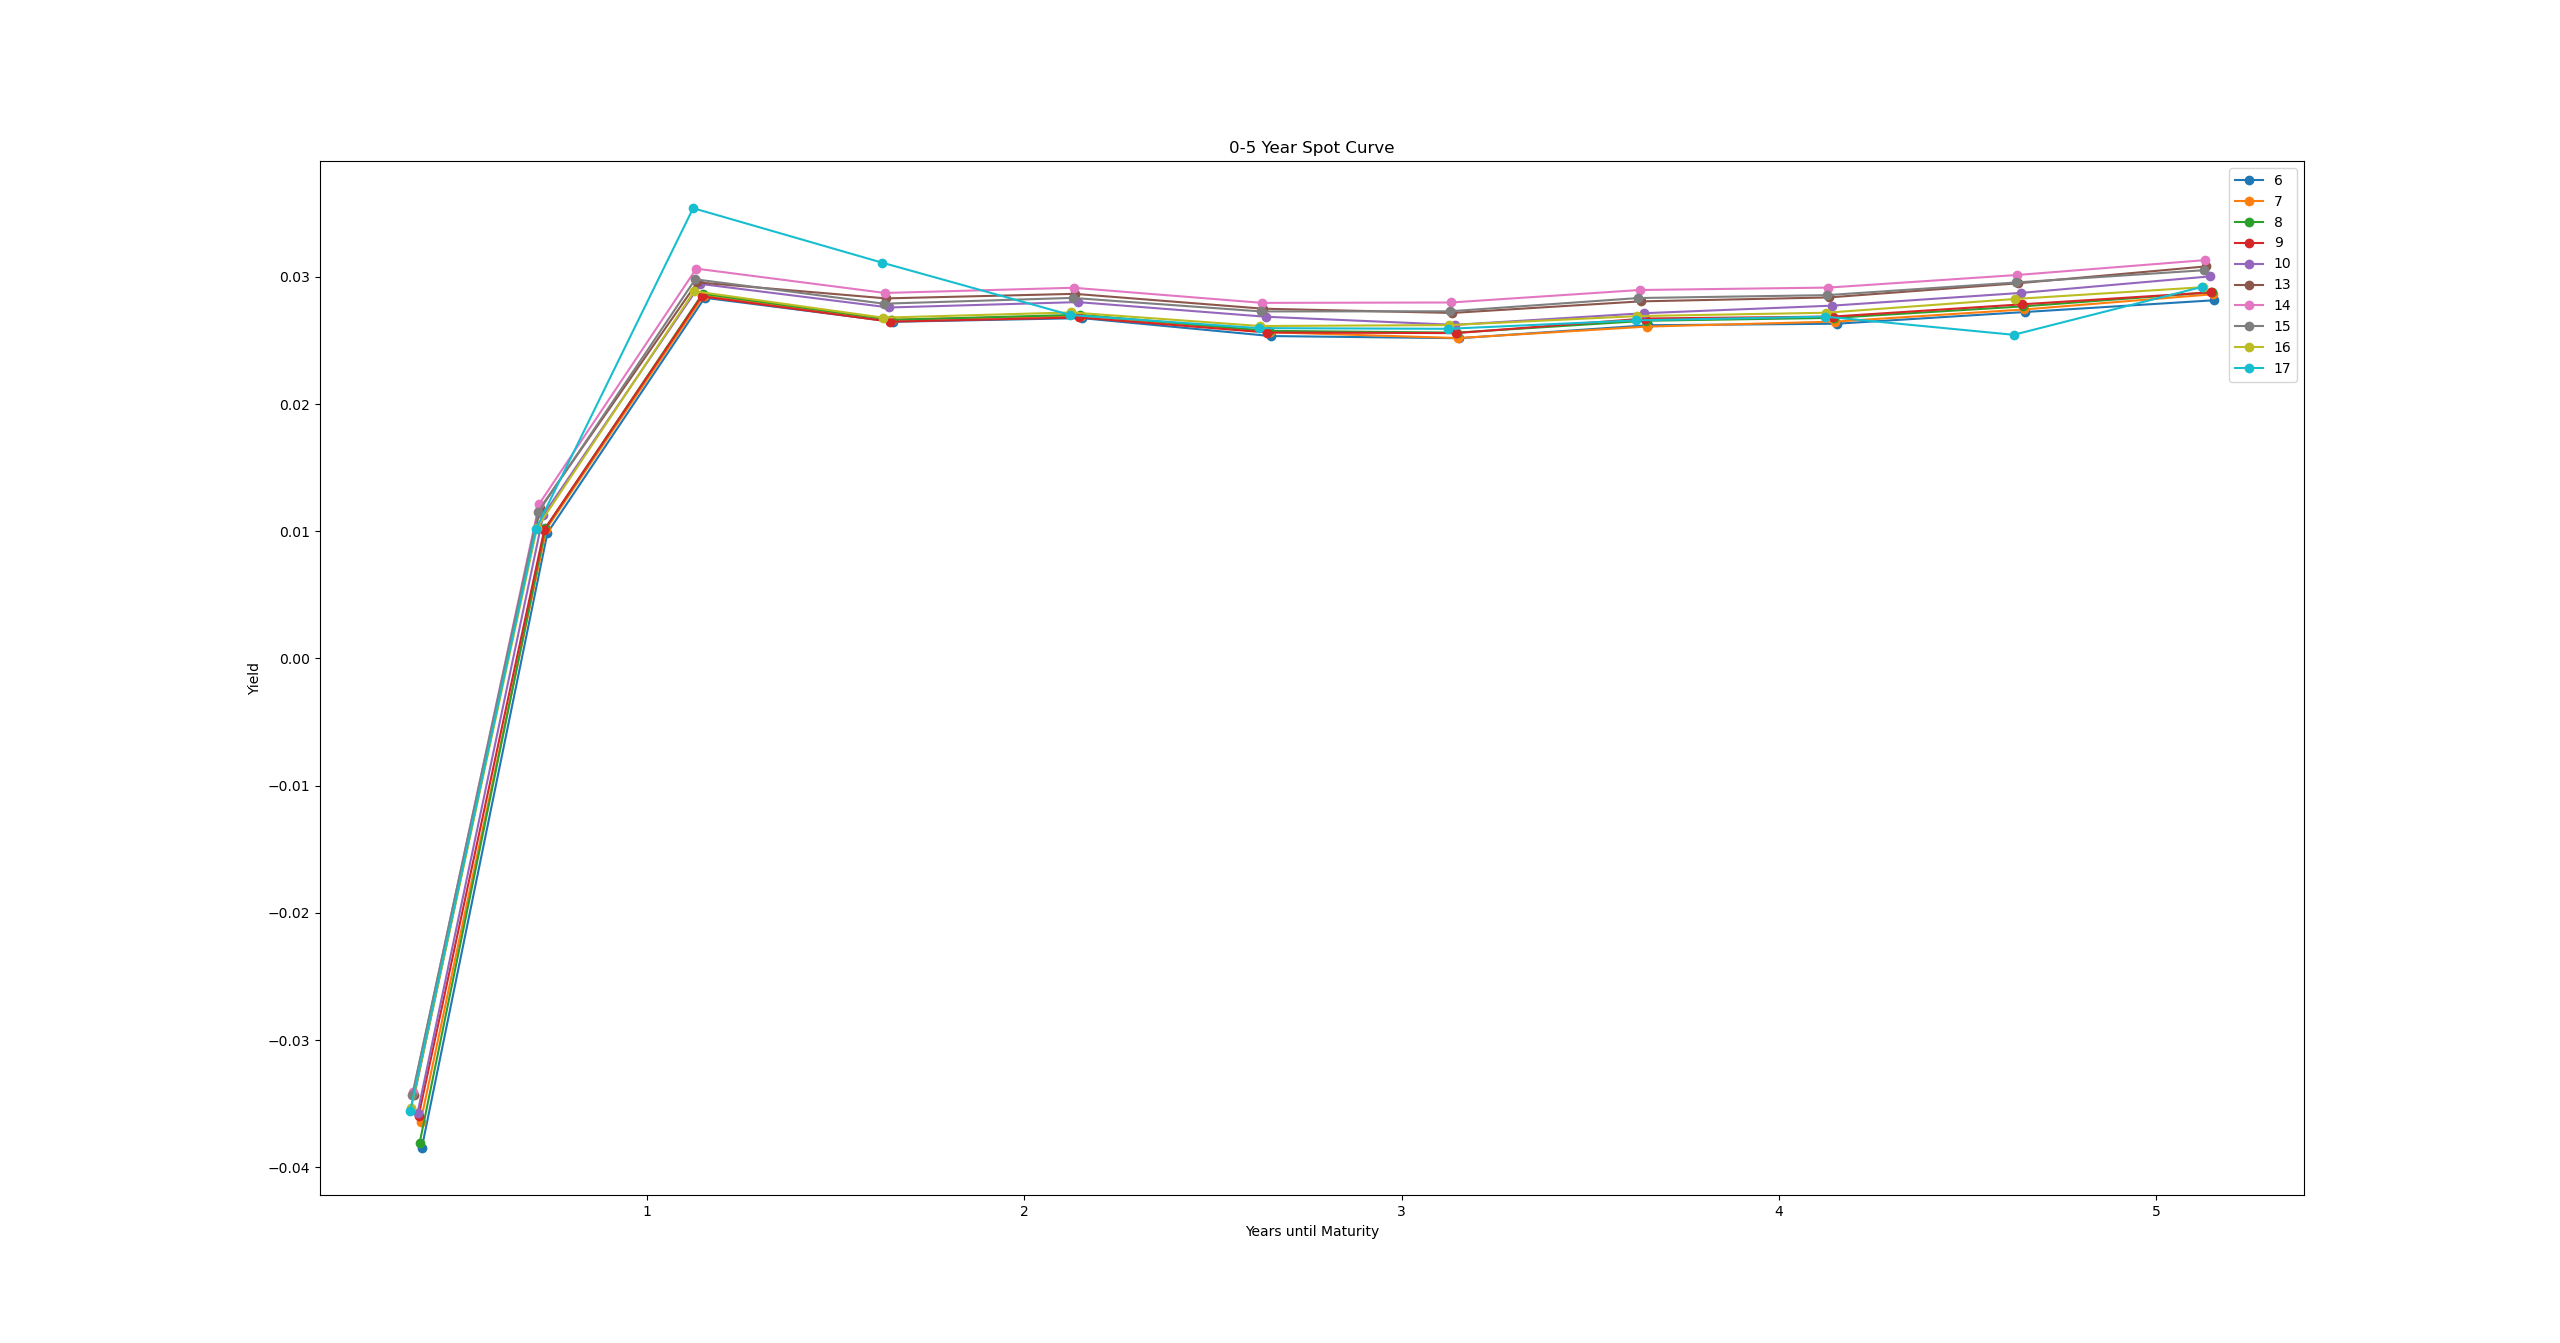
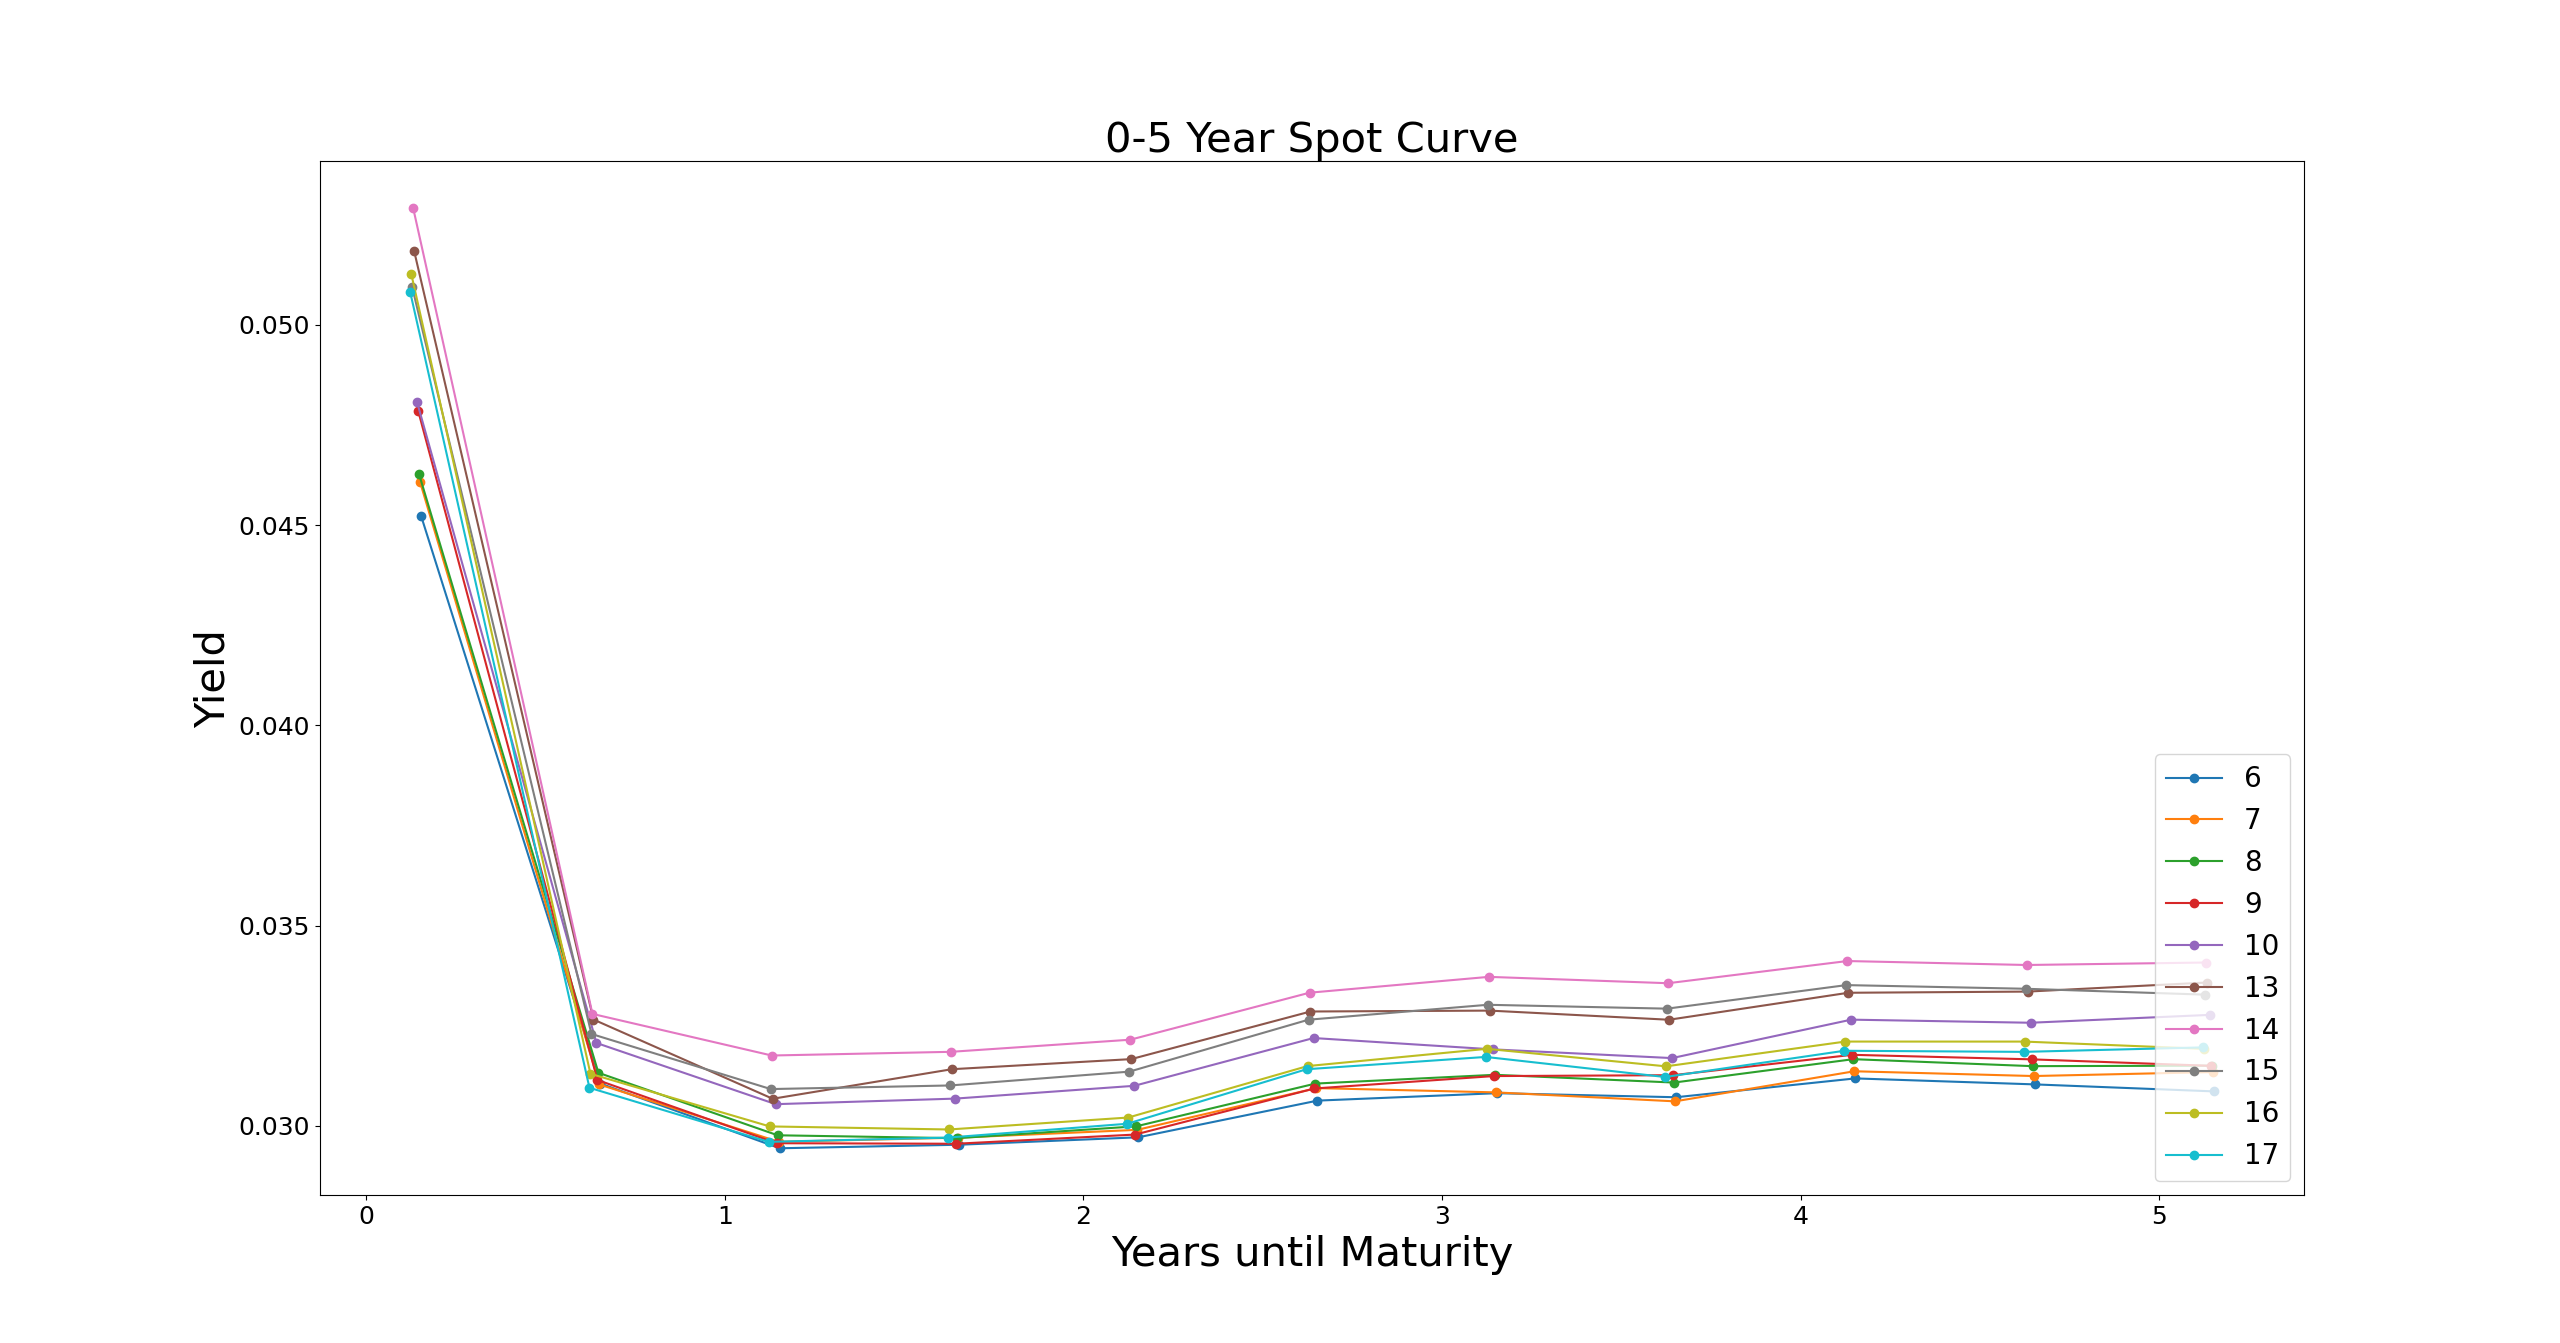
updated data, fixed some bugs, and added figures

diff --git a/assignment_1.py b/assignment_1.py
@@ -28,13 +28,13 @@ def calcualte_spot_rates(spot_rates, dirty_price, coupon_rate, years_until_matur
         return val
 
     number_of_coupon_payments = int(np.floor(years_until_maturity * 2))
-    # print(f"T: {years_until_maturity}")
+    # print(f"T: {years_until_maturity}, number of coupon payments: {number_of_coupon_payments}")
 
     price = dirty_price
     # subtract the previous payments
-    for i in range(number_of_coupon_payments - 1):
-        t = years_until_maturity - (number_of_coupon_payments - i - 1) * 0.5
-        # print(f"temp t: {t}")
+    for i in range(number_of_coupon_payments):
+        t = round(years_until_maturity - (number_of_coupon_payments - i) * 0.5, 4) # due to numerical errors
+        # print(f"i: {i}, temp t: {t}")
         N = 100 * coupon_rate / 2
 
         if t in spot_rates:
@@ -66,7 +66,7 @@ def interpolate_rate(d, x):
         else:
             xl = key
             yl = val
-    # print(f"x: {x}. xl: {xl}, xu: {xu}, yl: {yl}, yu: {yu}")
+    # print(f"x: {x}. xl: {xl}, xu: {xu}")
 
     # if there is no xu, then just pretend x = xl // TODO: ASK WHAT TO DO HERE
     if xu == 0:
@@ -92,6 +92,7 @@ def create_sorted_bonds_by_maturity(file_name):
         df['Maturity Date'] = pd.to_datetime(df['Maturity Date'])
         df['Days since last coupon payment'] = df['Maturity Date'].apply(calculate_days_since_last_coupon_payment)
         df['Dirty price'] = df.apply(lambda row: calculate_dirty_prices(row['Price'], row['Days since last coupon payment'], row['Coupon']), axis= 1)
+        df['Years until Maturity'] = df['Years until Maturity'].round(4)
         # print(df[['Dirty price', 'Years until Maturity']])
 
     return dfs
@@ -134,10 +135,12 @@ def plot_spot_curve(spot_rates):
         plt.plot(years_until_maturity, spot_rates_values, label = name, marker='o', linestyle='-', color=cmap(i / len(spot_rates)))
     
     # add labels and title
-    plt.xlabel('Years until Maturity')
-    plt.ylabel('Yield')
-    plt.title('0-5 Year Spot Curve')
-    plt.legend(loc='upper right')
+    plt.xticks(fontsize=18)
+    plt.yticks(fontsize=18)
+    plt.xlabel('Years until Maturity', fontsize=30)
+    plt.ylabel('Yield', fontsize=30)
+    plt.title('0-5 Year Spot Curve', fontsize=30)
+    plt.legend(loc='lower right', fontsize=20)
 
 
 def calculate_ytm(dirty_price, coupon_rate, years_until_maturity):
@@ -188,28 +191,7 @@ def calculate_future_price_zero_bonds(future_time, years_until_maturity, spot_ra
             r = spot_rates[years_until_maturity]
     else:
         r = interpolate_rate(spot_rates, years_until_maturity)
-    future_price = np.exp(r * (years_until_maturity - future_time)) # no need for the 100 as it gets cancelled out in the log anyways
-    return future_price
-
-
-# calculate the future price of a coupon bond
-def calculate_future_price(future_time, years_until_maturity, spot_rates, coupon_rate):
-    number_of_coupon_payments = int(np.floor((years_until_maturity - future_time) * 2))
-    future_price = 0
-    coupon_payment = 100 * coupon_rate / 2
-
-    for i in range(number_of_coupon_payments - 1):
-        t = years_until_maturity - (number_of_coupon_payments - i - 1) * 0.5
-
-        if t in spot_rates:
-            r = spot_rates[t]
-        else:
-            r = interpolate_rate(spot_rates, t)
-        future_price += coupon_payment * np.exp(- r * (t-future_time))
-    # add the final payment when the bond matures
-    r = spot_rates[years_until_maturity]
-    future_price += (100 + coupon_payment) * np.exp(- r * (years_until_maturity - future_time))
-
+    future_price = np.exp( - r * (years_until_maturity - future_time)) # no need for the 100 as it gets cancelled out in the log anyways
     return future_price
 
 # create forward rate
@@ -244,12 +226,12 @@ def calculate_forward_rate(all_spot_rates, all_bonds):
         number_of_points = len(future_prices)
         for index in range(number_of_points):
             if index == 0:
-                forward_rates[maturities[index]] = (future_prices[index + 1] - future_prices[index]) / (maturities[index + 1] - maturities[index])
+                forward_rates[maturities[index]] = - (future_prices[index + 1] - future_prices[index]) / (maturities[index + 1] - maturities[index])
                 # print(f'val = {(future_prices[index + 1] - future_prices[index]) / (maturities[index + 1] - maturities[index])}')
             elif index == number_of_points - 1:
-                forward_rates[maturities[index]] = (future_prices[index] - future_prices[index - 1]) / (maturities[index] - maturities[index - 1])
+                forward_rates[maturities[index]] = - (future_prices[index] - future_prices[index - 1]) / (maturities[index] - maturities[index - 1])
             else: # take average of slope on both sides
-                forward_rates[maturities[index]] = 0.5 * ((future_prices[index + 1] - future_prices[index]) / (maturities[index + 1] - maturities[index]) + (future_prices[index] - future_prices[index - 1]) / (maturities[index] - maturities[index - 1]))
+                forward_rates[maturities[index]] = - 0.5 * ((future_prices[index + 1] - future_prices[index]) / (maturities[index + 1] - maturities[index]) + (future_prices[index] - future_prices[index - 1]) / (maturities[index] - maturities[index - 1]))
         
         all_forward_rates[date] = forward_rates
 
@@ -361,10 +343,12 @@ def plot_ytm_curve(ytm_rates):
         plt.plot(years_until_maturity, ytm_values, label = name, marker='o', linestyle='-', color=cmap(i / len(ytm_rates)))
     
     # add labels and title
-    plt.xlabel('Years until Maturity')
-    plt.ylabel('YTM Value')
-    plt.title('0-5 Year YTM Curve')
-    plt.legend(loc='upper right')
+    plt.xticks(fontsize=18)
+    plt.yticks(fontsize=18)
+    plt.xlabel('Years until Maturity', fontsize=30)
+    plt.ylabel('YTM Value', fontsize=30)
+    plt.title('0-5 Year YTM Curve', fontsize=30)
+    plt.legend(loc='lower right', fontsize=20)
 
 # plot forward rates
 def plot_forward_rates_curve(forward_rates):
@@ -383,35 +367,12 @@ def plot_forward_rates_curve(forward_rates):
         plt.plot(years_until_maturity, forward_rates_values, label = name, marker='o', linestyle='-', color=cmap(i / len(forward_rates)))
     
     # add labels and title
-    plt.xlabel('T = Years until Maturity')
-    plt.ylabel('f(1, T)')
-    plt.title('1-year Forward Rate Curve')
-    plt.legend(loc='upper right')
-
-def plot_difference(yield_rates, ytm_rates):
-
-    cmap = plt.get_cmap('tab10')
-
-    for i, date in enumerate(ytm_rates):
-        # plot curve for each date
-        years_until_maturity = list(ytm_rates[date].keys())
-        ytm_values = list(ytm_rates[date].values())
-        yield_values = list(yield_rates[date].values())
-        result = []
-        for i in range(len(ytm_values)):
-            result.append(ytm_values[i] - yield_values[i])
-        
-        # get the label for the plot
-        words = date.split()
-        name = ' '.join(words[1:])
-
-        plt.plot(years_until_maturity, result, label = name, marker='o', linestyle='-', color=cmap(i / len(ytm_rates)))
-    
-    # add labels and title
-    plt.xlabel('Years until Maturity')
-    plt.ylabel('Yield')
-    plt.title('0-5 Year YTM Curve')
-    plt.legend(loc='upper right')
+    plt.xticks(fontsize=18)
+    plt.yticks(fontsize=18)
+    plt.xlabel('T = Years until Maturity', fontsize=30)
+    plt.ylabel('f(1, T)', fontsize=30)
+    plt.title('Forward Rate Curve', fontsize=30)
+    plt.legend(loc='lower right', fontsize=20)
 
 # get the data
 sorted_bonds = create_sorted_bonds_by_maturity('bond_prices_chosen_bonds.xlsx')
@@ -436,6 +397,5 @@ plt.figure()
 plot_ytm_curve(yield_rates)
 plt.figure()
 plot_forward_rates_curve(forward_rates)
-# plt.figure()
-# plot_difference(yield_rates, ytm_rates)
+
 plt.show()
